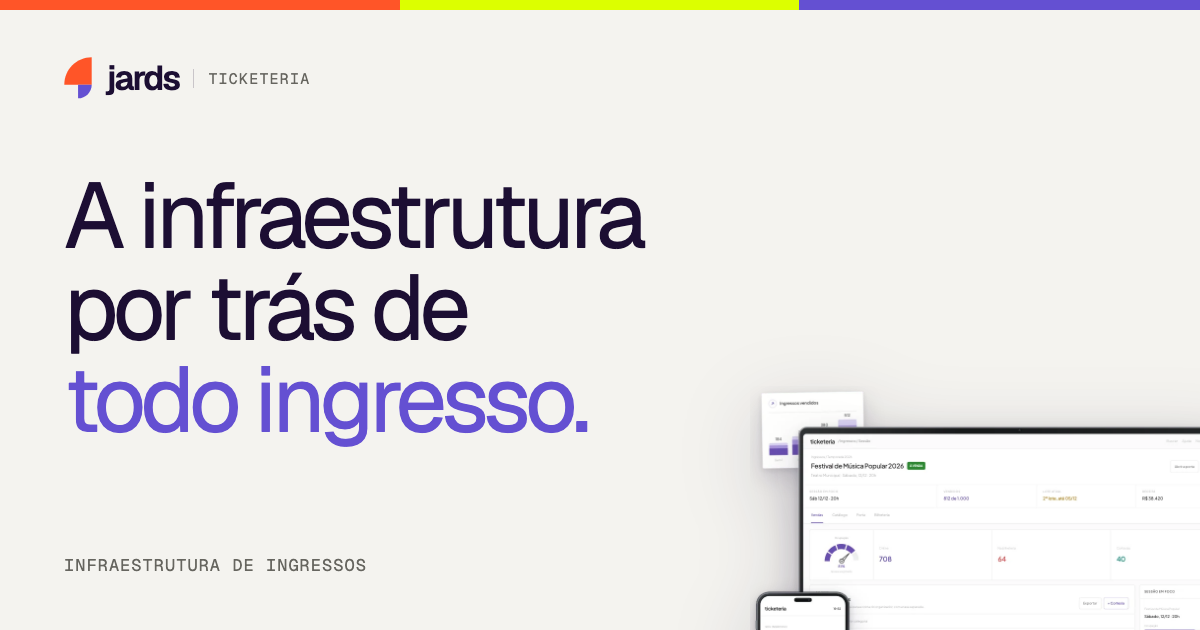
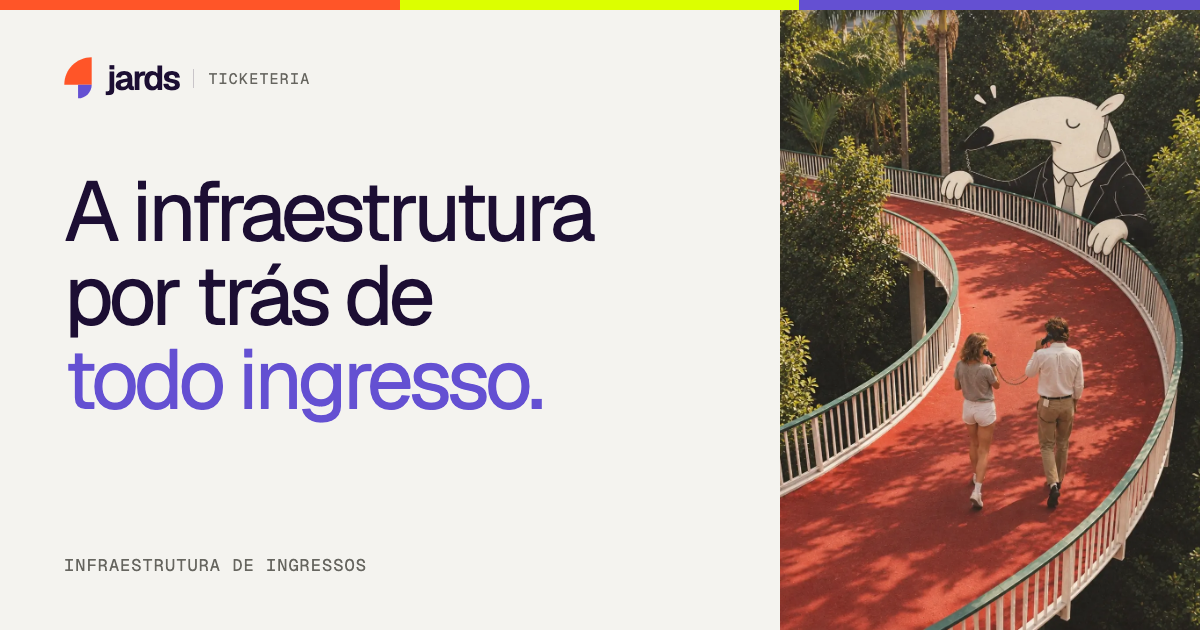
feat(ticketeria): imagem do tamanduá na seção dos agentes e na imagem de compartilhamento (#465)
A ilustração com foto (o tamanduá gigante observando duas pessoas numa rampa) entra na seção
'A ticketeria que os agentes escolheriam', ao lado do texto, com canto de 12px; a abertura continua
sem imagem. A imagem de compartilhamento passa a usar a mesma arte. O botão do menu no celular
deixa de quebrar em duas linhas.

diff --git a/public/ticketeria.html b/public/ticketeria.html
@@ -69,6 +69,8 @@
 .tku-desc { font-size:17px; line-height:1.6; color:#3A3935; max-width:470px; }
 .tku-acoes { display:flex; flex-wrap:wrap; gap:12px; margin-top:28px; }
 .tku-spec { border:1px solid var(--tku-linha); border-radius:var(--tku-raio); overflow:hidden; background:var(--tku-sup); }
+.tku-arte { align-self:start; border-radius:var(--tku-raio); overflow:hidden; background:#E9E5DF; aspect-ratio:626/600; }
+.tku-arte img { display:block; width:100%; height:100%; object-fit:cover; object-position:50% 46%; }
 .tku-spec li { display:flex; gap:14px; padding:9px 14px; border-top:1px solid var(--tku-linha); font-size:13.5px; line-height:1.45; font-weight:400; }
 .tku-spec li:first-child { border-top:0; }
 .tku-spec b { font-family:'Geist Mono',monospace; font-weight:500; color:var(--tku-vio); min-width:22px; }
@@ -223,7 +225,7 @@ section[id] { scroll-margin-top:72px; }
 .tku-foot a:hover, .tku-foot button:hover { color:var(--tku-ink); }
 .tku-foot-links { display:flex; gap:22px; flex-wrap:wrap; }
 @media (max-width:1023px) { .tku-nav-in { padding:0 32px; } .tku-nav-links { display:none; } }
-@media (max-width:640px) { .tku-nav-in { padding:0 20px; } .tku-nav .tku-btn { padding:0 14px; gap:10px; } }
+@media (max-width:640px) { .tku-nav-in { padding:0 20px; } .tku-nav .tku-btn { padding:0 12px; gap:8px; font-size:11px; white-space:nowrap; } }
 
 .tku-faq summary i { font-style:normal; font-size:24px; line-height:1; font-weight:300; }
   </style>
@@ -363,14 +365,15 @@ section[id] { scroll-margin-top:72px; }
       <div>
         <span class="tku-st tku-st--b">Em breve</span>
         <h2 id="agentes-titulo" class="tku-h2 tku-cond" style="margin-top:22px">A ticketeria que <span class="tku-vio">os agentes escolheriam.</span></h2>
-      </div>
-      <div>
-        <p class="tku-lede" style="margin-top:0">A descoberta e a compra de ingressos passam cada vez mais por assistentes e agentes de IA. O critério deles é objetivo: dados abertos, regras explícitas, ações previsíveis e pagamento seguro. A Ticketeria está sendo projetada para atender a esse critério desde a base.</p>
+        <p class="tku-lede">A descoberta e a compra de ingressos passam cada vez mais por assistentes e agentes de IA. O critério deles é objetivo: dados abertos, regras explícitas, ações previsíveis e pagamento seguro. A Ticketeria está sendo projetada para atender a esse critério desde a base.</p>
         <ul class="tku-lista">
           <li>Eventos, sessões e disponibilidade em formato aberto, legível por máquina.</li>
           <li>Agentes consultam a agenda e concluem compras segundo as regras definidas pelo organizador.</li>
           <li>O pagamento continua dividido na transação.</li>
         </ul>
+      </div>
+      <div class="tku-arte">
+        <img src="assets/ticketeria-agentes.webp" width="1096" height="1435" loading="lazy" alt="Ilustração de um tamanduá gigante, de terno, apoiado no parapeito de uma rampa curva num parque, observando duas pessoas que caminham ao telefone." />
       </div>
     </div>
   </div>
